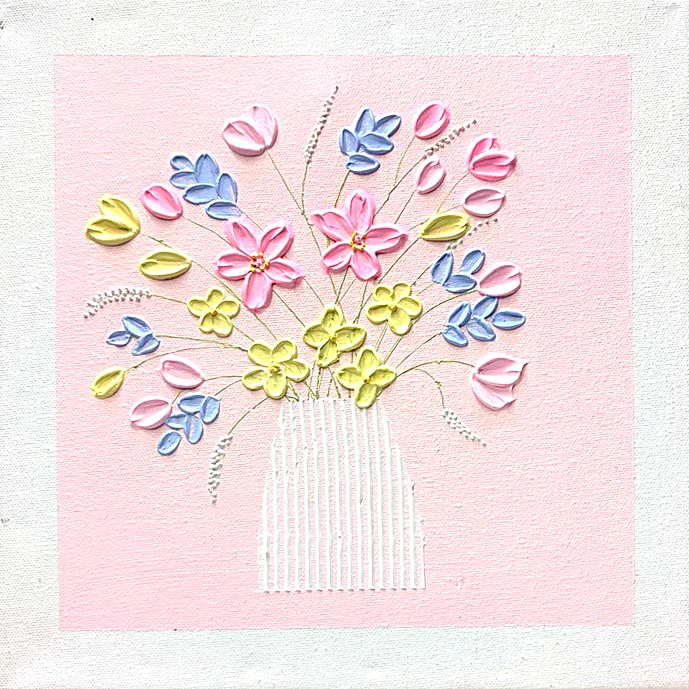
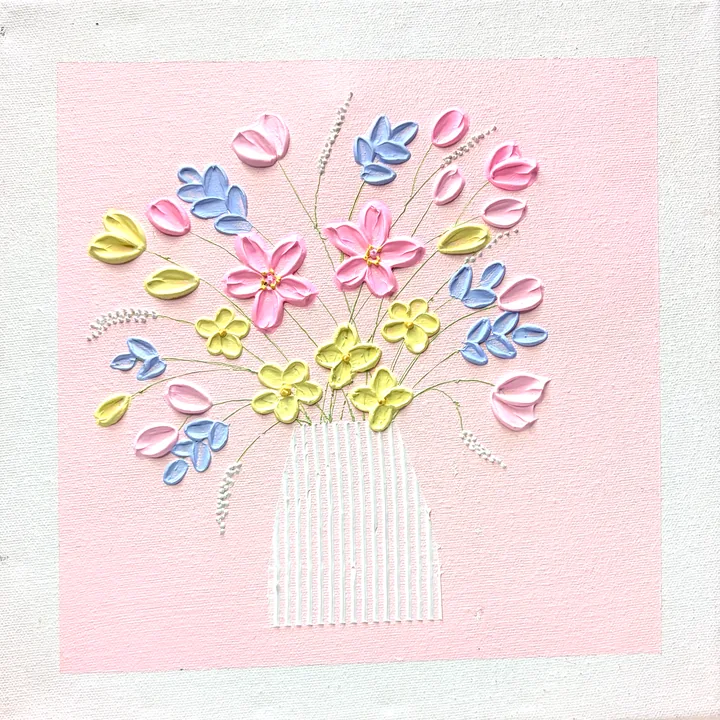
Add nine new pieces with prices; sharper photo for Blush Bouquet
Tulip Moon, Pistachio Blooms, Lilac Spiral, Sunrise Sprigs, Sage Scales,
Seafoam Scales, Lotus Pond, Shoal Swirl and Sunset Swell.

diff --git a/data/artworks.js b/data/artworks.js
@@ -500,6 +500,34 @@ window.ARTWORKS = [
       room:  { src: '/images/art/sunset-scales/room.webp',  w: 1600, h: 1200, alt: 'Sunset Scales on a navy wall above a light oak sideboard' }
     }
   },
+  {
+    slug: 'seafoam-scales',
+    title: 'Seafoam Scales',
+    year: 2026,
+    price: 16100,
+    concept: 'Rows of rounded scales pressed edge to edge across the canvas, each a single dab of paste. Bubblegum pink and soft gold at the top shift down into seafoam and deep lagoon teal at the bottom.',
+    holds: 'A sunset reflected in shallow water, broken into a thousand ripples.',
+    size: { w: 50, h: 40 },
+    depth: '',
+    medium: 'Acrylic colour mixed into texture paste, on stretched canvas',
+    canvas: 'stretched',
+    shape: 'landscape',
+    family: 'cool',
+    palette: [
+      { name: 'bubblegum', hex: '#CE8E9D' },
+      { name: 'mustard', hex: '#B69E68' },
+      { name: 'seafoam', hex: '#669693' },
+      { name: 'lagoon', hex: '#437E7A' }
+    ],
+    tags: ['abstract', 'pop-pastels', 'joyful'],
+    suits: ['Living room', 'Bedroom', 'Dining'],
+    status: 'available',
+    featured: false,
+    images: {
+      front: { src: '/images/art/seafoam-scales/front.webp', w: 1600, h: 1275, alt: 'Seafoam Scales: rows of raised scales shading from bubblegum pink and gold into seafoam and teal' },
+      room:  { src: '/images/art/seafoam-scales/room.webp',  w: 1600, h: 1200, alt: 'Seafoam Scales on a plum wall above a pale ash sideboard' }
+    }
+  },
   // ── The Bloom Room ──
   {
     slug: 'butter-daisies',
@@ -1028,8 +1056,120 @@ window.ARTWORKS = [
     status: 'sold',
     featured: false,
     images: {
-      front: { src: '/images/art/blush-bouquet/front.webp', w: 689, h: 689, alt: 'Blush Bouquet: a pink square on white canvas holding a vase of combed white ridges and raised pink, blue and yellow flowers' },
+      front: { src: '/images/art/blush-bouquet/front.webp', w: 1600, h: 1600, alt: 'Blush Bouquet: a pink square on white canvas holding a vase of combed white ridges and raised pink, blue and yellow flowers' },
       room:  { src: '/images/art/blush-bouquet/room.webp',  w: 1600, h: 1200, alt: 'Blush Bouquet on a sage-green wall above a pale ash sideboard' }
+    }
+  },
+  {
+    slug: 'tulip-moon',
+    title: 'Tulip Moon',
+    year: 2026,
+    price: 4700,
+    concept: 'A round canvas painted soft lavender, with a field of tulips rising across it. Each violet and lemon cup is pressed in two or three strokes of paste, on fine mint stems, with sprays of tiny white dots between them.',
+    holds: 'A spring evening caught in a circle, the kind you would keep on a windowsill.',
+    size: { d: 20 },
+    depth: '',
+    medium: 'Acrylic colour mixed into texture paste, over a painted acrylic ground, on stretched canvas',
+    canvas: 'stretched',
+    shape: 'round',
+    family: 'cool',
+    palette: [
+      { name: 'lavender', hex: '#B8AEB7' },
+      { name: 'violet', hex: '#7E6BAC' },
+      { name: 'lemon', hex: '#EBD045' },
+      { name: 'mint', hex: '#669C81' }
+    ],
+    tags: ['florals', 'botanical', 'calm'],
+    suits: ['Bedroom', 'Entryway', 'Kids room'],
+    status: 'available',
+    featured: false,
+    images: {
+      front: { src: '/images/art/tulip-moon/front.webp', w: 1600, h: 1600, alt: 'Tulip Moon: a round lavender canvas with raised violet and lemon tulips on fine mint stems and sprays of white dots' },
+      room:  { src: '/images/art/tulip-moon/room.webp',  w: 1600, h: 1200, alt: 'Tulip Moon on a sage-green wall above a pale ash sideboard' }
+    }
+  },
+  {
+    slug: 'pistachio-blooms',
+    title: 'Pistachio Blooms',
+    year: 2026,
+    price: 6200,
+    concept: 'Four large blossoms fill a hot-pink ground. Each pistachio petal is spread wide and outlined in a raised rim of paste, around a violet star and a golden, dotted centre.',
+    holds: 'Big, happy flowers for a wall that needs cheering up.',
+    size: { w: 25, h: 30 },
+    depth: '',
+    medium: 'Acrylic colour mixed into texture paste, over a painted acrylic ground, on canvas board',
+    canvas: 'board',
+    shape: 'portrait',
+    family: 'warm',
+    palette: [
+      { name: 'pistachio', hex: '#AAA67F' },
+      { name: 'bubblegum', hex: '#D5638C' },
+      { name: 'violet', hex: '#726696' },
+      { name: 'gold', hex: '#AD913F' }
+    ],
+    tags: ['florals', 'joyful'],
+    suits: ['Living room', 'Bedroom', 'Dining'],
+    status: 'available',
+    featured: false,
+    images: {
+      front: { src: '/images/art/pistachio-blooms/front.webp', w: 1328, h: 1600, alt: 'Pistachio Blooms: four large pistachio-green flowers with violet centres, raised in paste on a hot-pink ground' },
+      room:  { src: '/images/art/pistachio-blooms/room.webp',  w: 1600, h: 1200, alt: 'Pistachio Blooms on a cream wall above a light oak sideboard' }
+    }
+  },
+  {
+    slug: 'lilac-spiral',
+    title: 'Lilac Spiral',
+    year: 2026,
+    price: 7300,
+    concept: 'A ground that melts from aqua into lilac, with a softer panel set inside it. Over it, a long trail of single leaf strokes in mint, powder blue, lilac and cream curls into a spiral and sweeps back out across the bottom.',
+    holds: 'A slow, looping thought that ends somewhere calm.',
+    size: { w: 25, h: 30 },
+    depth: '',
+    medium: 'Acrylic colour mixed into texture paste, over a painted acrylic ground, on stretched canvas',
+    canvas: 'stretched',
+    shape: 'portrait',
+    family: 'cool',
+    palette: [
+      { name: 'aqua', hex: '#9AC8C0' },
+      { name: 'lilac', hex: '#9F76A4' },
+      { name: 'mint', hex: '#90BC9A' },
+      { name: 'powder', hex: '#9AABCB' }
+    ],
+    tags: ['botanical', 'abstract', 'gradient', 'calm'],
+    suits: ['Bedroom', 'Living room', 'Study'],
+    status: 'available',
+    featured: false,
+    images: {
+      front: { src: '/images/art/lilac-spiral/front.webp', w: 1330, h: 1600, alt: 'Lilac Spiral: a trail of mint, lilac and powder-blue leaf strokes curling into a spiral over an aqua-to-lilac gradient' },
+      room:  { src: '/images/art/lilac-spiral/room.webp',  w: 1600, h: 1200, alt: 'Lilac Spiral on a deep green wall above a walnut sideboard' }
+    }
+  },
+  {
+    slug: 'sunrise-sprigs',
+    title: 'Sunrise Sprigs',
+    year: 2026,
+    price: 6800,
+    concept: 'A sky that fades from tangerine through lemon into blue, crossed by blocks of sky and terracotta. Three long sprigs of pressed leaves, two powder blue and one butter yellow, cut across it, with a small knotted sun in the corner.',
+    holds: 'The first light of a holiday morning, before anyone else is awake.',
+    size: { w: 23, h: 30 },
+    depth: '',
+    medium: 'Acrylic colour mixed into texture paste, over a painted acrylic ground, on stretched canvas',
+    canvas: 'stretched',
+    shape: 'portrait',
+    family: 'warm',
+    palette: [
+      { name: 'tangerine', hex: '#DE6446' },
+      { name: 'lemon', hex: '#D3BD6C' },
+      { name: 'sky', hex: '#619EC7' },
+      { name: 'terracotta', hex: '#D98970' }
+    ],
+    tags: ['botanical', 'abstract', 'gradient', 'joyful'],
+    suits: ['Living room', 'Dining', 'Entryway'],
+    status: 'available',
+    featured: false,
+    images: {
+      front: { src: '/images/art/sunrise-sprigs/front.webp', w: 1222, h: 1600, alt: 'Sunrise Sprigs: blue and yellow sprigs of raised leaves crossing a tangerine-to-blue gradient, with a small coiled sun' },
+      room:  { src: '/images/art/sunrise-sprigs/room.webp',  w: 1600, h: 1200, alt: 'Sunrise Sprigs on a navy wall above a light oak sideboard' }
     }
   },
   // ── The Clay Room ──
@@ -1086,6 +1226,34 @@ window.ARTWORKS = [
     images: {
       front: { src: '/images/art/cobalt-shore/front.webp', w: 1600, h: 1227, alt: 'Cobalt Shore: sand-textured paste meeting overlapping scallops in white, seafoam and cobalt blue' },
       room:  { src: '/images/art/cobalt-shore/room.webp',  w: 1600, h: 1200, alt: 'Cobalt Shore on a deep green wall above a walnut sideboard' }
+    }
+  },
+  {
+    slug: 'sage-scales',
+    title: 'Sage Scales',
+    year: 2026,
+    price: 16100,
+    concept: 'Rows of rounded scales pressed edge to edge across the whole canvas, each one a single dab of paste with a raised rim. Sage and olive at the top and bottom give way to a band of mustard, blush and teal through the middle.',
+    holds: 'A field seen from far away, every patch a slightly different green.',
+    size: { w: 50, h: 40 },
+    depth: '',
+    medium: 'Acrylic colour mixed into texture paste, on stretched canvas',
+    canvas: 'stretched',
+    shape: 'landscape',
+    family: 'green',
+    palette: [
+      { name: 'sage', hex: '#7F8D6E' },
+      { name: 'olive', hex: '#5B6C4C' },
+      { name: 'mustard', hex: '#BD8F4B' },
+      { name: 'teal', hex: '#549493' }
+    ],
+    tags: ['abstract', 'earthy', 'calm'],
+    suits: ['Living room', 'Study', 'Dining'],
+    status: 'available',
+    featured: false,
+    images: {
+      front: { src: '/images/art/sage-scales/front.webp', w: 1600, h: 1275, alt: 'Sage Scales: rows of raised scales in sage, olive, mustard and teal covering the canvas' },
+      room:  { src: '/images/art/sage-scales/room.webp',  w: 1600, h: 1200, alt: 'Sage Scales on a terracotta wall above a light oak sideboard' }
     }
   },
   // ── The Grove ──
@@ -1339,6 +1507,90 @@ window.ARTWORKS = [
     images: {
       front: { src: '/images/art/tangerine-tide/front.webp', w: 1415, h: 1415, alt: 'Tangerine Tide: four panels of blue and white knife-stroked paste divided by a cross of bare canvas, with a raised tangerine sun where the lines meet' },
       room:  { src: '/images/art/tangerine-tide/room.webp',  w: 1600, h: 1200, alt: 'Tangerine Tide on a terracotta wall above a light oak sideboard' }
+    }
+  },
+  {
+    slug: 'lotus-pond',
+    title: 'Lotus Pond',
+    year: 2026,
+    price: 7300,
+    concept: 'A pond of soft circular brushstrokes in pistachio, seafoam and aqua. Orange koi with flowing tails are pulled out in paste, with small white lotus flowers pressed petal by petal and a scatter of white dots for bubbles.',
+    holds: 'A quiet garden pond, where nothing hurries.',
+    size: { w: 30, h: 25 },
+    depth: '',
+    medium: 'Acrylic colour mixed into texture paste, over a painted acrylic ground, on stretched canvas',
+    canvas: 'stretched',
+    shape: 'landscape',
+    family: 'green',
+    palette: [
+      { name: 'pistachio', hex: '#95A990' },
+      { name: 'seafoam', hex: '#8FB0A6' },
+      { name: 'aqua', hex: '#7FB2C6' },
+      { name: 'apricot', hex: '#DA9C71' }
+    ],
+    tags: ['landscape', 'calm'],
+    suits: ['Living room', 'Study', 'Entryway'],
+    status: 'available',
+    featured: false,
+    images: {
+      front: { src: '/images/art/lotus-pond/front.webp', w: 1600, h: 1329, alt: 'Lotus Pond: orange koi and white lotus flowers raised in paste over swirling green and aqua water' },
+      room:  { src: '/images/art/lotus-pond/room.webp',  w: 1600, h: 1200, alt: 'Lotus Pond on a cream wall above a light oak sideboard' }
+    }
+  },
+  {
+    slug: 'shoal-swirl',
+    title: 'Shoal Swirl',
+    year: 2026,
+    price: 6800,
+    concept: 'A deep cobalt sea lightening to a pale glow at the centre. Around it a shoal of fish turns in a wide circle, each fish a single knife stroke of pink, peach, mint or lilac paste with a flicked tail.',
+    holds: 'Moving together and still finding room to shine.',
+    size: { w: 23, h: 30 },
+    depth: '',
+    medium: 'Acrylic colour mixed into texture paste, over a painted acrylic ground, on stretched canvas',
+    canvas: 'stretched',
+    shape: 'portrait',
+    family: 'cool',
+    palette: [
+      { name: 'cobalt', hex: '#1131A2' },
+      { name: 'sky', hex: '#7FB9DA' },
+      { name: 'bubblegum', hex: '#CB7E9F' },
+      { name: 'cream', hex: '#EEE1D6' }
+    ],
+    tags: ['seascape', 'abstract', 'joyful'],
+    suits: ['Living room', 'Bedroom', 'Kids room'],
+    status: 'available',
+    featured: false,
+    images: {
+      front: { src: '/images/art/shoal-swirl/front.webp', w: 1222, h: 1600, alt: 'Shoal Swirl: a circle of pastel fish, each a single stroke of paste, turning around a pale glow in a cobalt sea' },
+      room:  { src: '/images/art/shoal-swirl/room.webp',  w: 1600, h: 1200, alt: 'Shoal Swirl on a peach wall above a powder-blue sideboard' }
+    }
+  },
+  {
+    slug: 'sunset-swell',
+    title: 'Sunset Swell',
+    year: 2026,
+    price: 6300,
+    concept: 'Thick, combed bands of paste sweep diagonally across the canvas: cobalt and sky-blue sea below, then violet, pink and tangerine, up to a butter-yellow sun with a knotted centre.',
+    holds: 'The last warm minutes of a beach day, when the sea turns every colour at once.',
+    size: { w: 25, h: 25 },
+    depth: '',
+    medium: 'Acrylic colour mixed into texture paste, over a painted acrylic ground, on stretched canvas',
+    canvas: 'stretched',
+    shape: 'square',
+    family: 'warm',
+    palette: [
+      { name: 'cobalt', hex: '#204FC5' },
+      { name: 'violet', hex: '#B267BA' },
+      { name: 'tangerine', hex: '#FC744D' },
+      { name: 'butter', hex: '#F7E399' }
+    ],
+    tags: ['seascape', 'landscape', 'joyful'],
+    suits: ['Living room', 'Bedroom', 'Study'],
+    status: 'available',
+    featured: false,
+    images: {
+      front: { src: '/images/art/sunset-swell/front.webp', w: 1600, h: 1600, alt: 'Sunset Swell: diagonal combed bands of cobalt, violet, pink and tangerine paste rising to a butter-yellow sun' },
+      room:  { src: '/images/art/sunset-swell/room.webp',  w: 1600, h: 1200, alt: 'Sunset Swell on a lilac wall above a light oak sideboard' }
     }
   }
 ];
